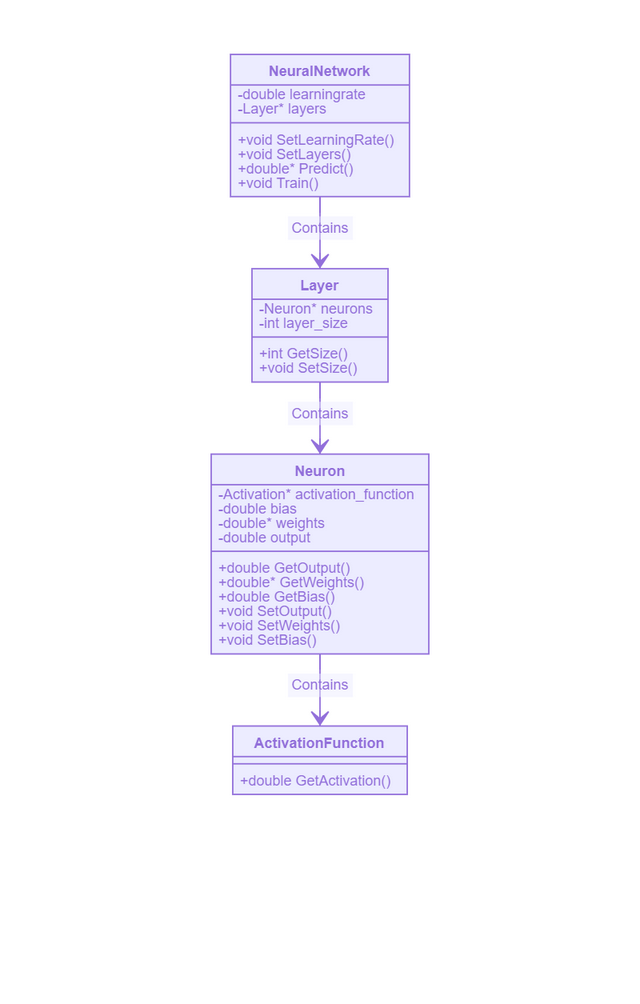
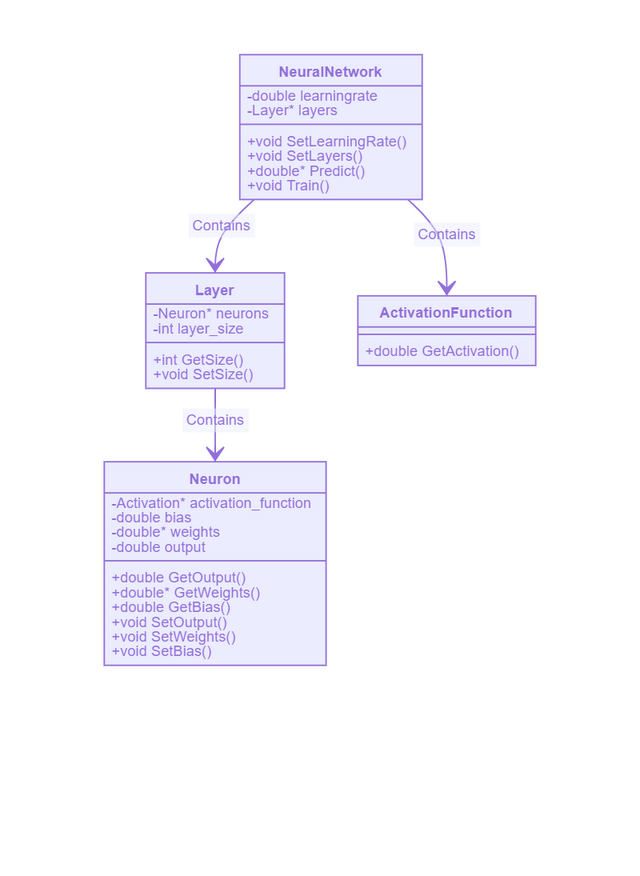
Add files via upload

Changed region(s): [[0.1562, 0.0308, 0.8438, 0.8014], [0.6562, 0.524, 0.6875, 0.5548]]

diff --git a/Resources/Images/classBasicsNabla.md b/Resources/Images/classBasicsNabla.md
@@ -3,7 +3,7 @@
       
       NeuralNetwork --> Layer : Contains
       Layer --> Neuron : Contains
-      Neuron --> ActivationFunction : Contains
+      NeuralNetwork --> ActivationFunction : Contains
       
       class NeuralNetwork{
           -double learningrate
